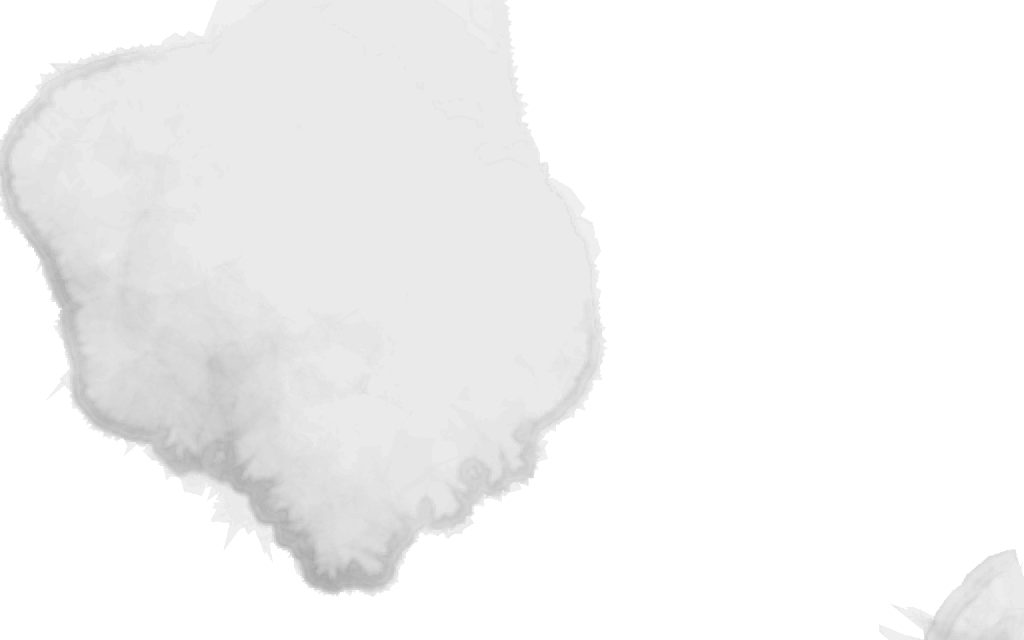
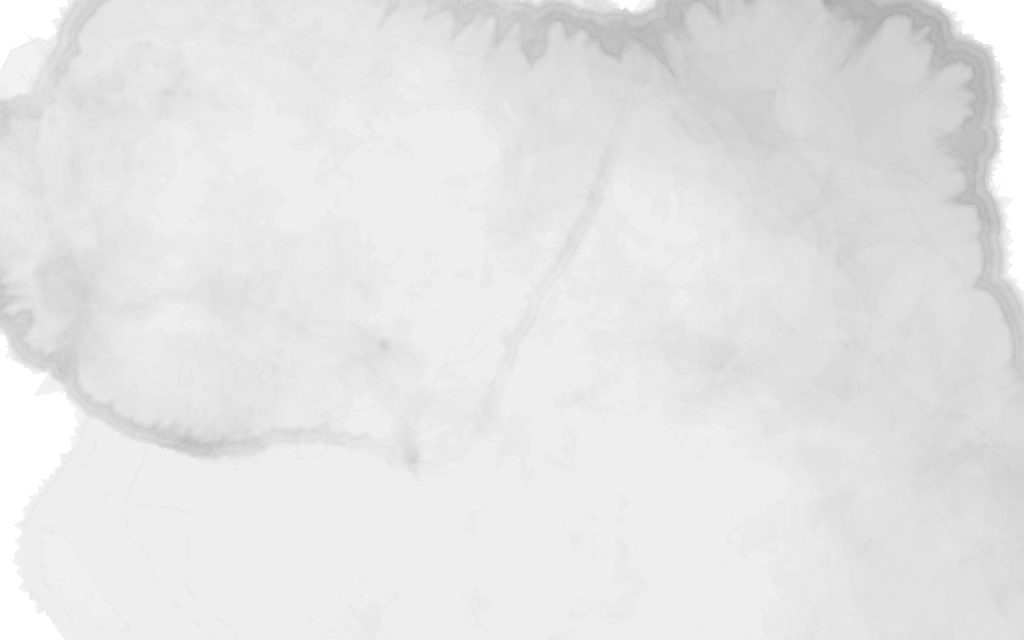
The canopy is painted with the brush, and cutouts stop printing as boxes
He was right that the extruded leaf-stars were not giving leaves. The mark
factory now paints canopies with p5.brush — hundreds of individually bled,
textured leaf strokes in a gaussian mass with twig splines underneath — and
the tree wears them as alpha-tested sprites tinted to the plate family. The
ink pass outlines their ragged painterly silhouettes, which is the whole
point: foliage that reads as drawn, because it literally was.

That exposed a pipeline gap: the G-buffer prepass used one override material
with no alpha test, so every cutout sprite rendered as a full quad in depth
and the ink dutifully framed it in a black rectangle. The prepass now swaps
per-mesh: cutout materials (alphaTest + map) get a cutout G-buffer variant
that discards transparent fragments, cached per mesh; everything else shares
the solid variant as before. This also future-proofs the hand-drawn figure
cutouts, which would have hit the identical bug the day the drawings landed.

Factory notes: the third consecutive canopy paint hard-hangs p5.brush
regardless of seed or size (cumulative internal state), so the tree runs on
two marks mirrored, scaled and tinted into variety; and the giant wall type
now skips the skill tree — its letters were ghosting through the crown, and
a tree full of pickable fruit does not need a label.

diff --git a/src/world/scenes.tsx b/src/world/scenes.tsx
@@ -816,6 +816,59 @@ function ArtifactScene({
   )
 }
 
+
+const FOLIAGE = Object.entries(
+  import.meta.glob('../assets/ink/marks/foliage-*.png', {
+    eager: true,
+    query: '?url',
+    import: 'default',
+  }) as Record<string, string>,
+)
+  .sort(([a], [b]) => a.localeCompare(b))
+  .map(([, url]) => url)
+
+/**
+ * A mass of brush-painted leaves (from the p5.brush mark factory), tinted to
+ * the plate family and alpha-TESTED so the ink pass outlines its ragged,
+ * painterly silhouette — foliage that reads as drawn, not extruded.
+ */
+function CanopySprite({
+  variant,
+  tint,
+  position,
+  scale = 1,
+  flip = false,
+  rotation = 0,
+}: {
+  variant: number
+  tint: THREE.Color
+  position: [number, number, number]
+  scale?: number
+  flip?: boolean
+  rotation?: number
+}) {
+  const url = FOLIAGE[variant % FOLIAGE.length]
+  const texture = useTexture(url)
+  const gradient = useMemo(() => makeToonGradient(3), [])
+  const material = useMemo(() => {
+    texture.colorSpace = THREE.SRGBColorSpace
+    texture.anisotropy = 4
+    return new THREE.MeshToonMaterial({
+      map: texture,
+      color: tint,
+      gradientMap: gradient,
+      alphaTest: 0.35,
+      side: THREE.DoubleSide,
+      toneMapped: false,
+    })
+  }, [texture, tint, gradient])
+  return (
+    <mesh position={position} rotation={[0, 0, rotation]} scale={[flip ? -scale : scale, scale, 1]} material={material}>
+      <planeGeometry args={[2, 2]} />
+    </mesh>
+  )
+}
+
 /**
  * The skill tree, fruiting. Foliage is a dense crown of leaf clusters; the
  * CLICKABLE things are fruit hanging from the boughs — four skill groups and
@@ -825,7 +878,6 @@ function ArtifactScene({
  */
 function TreeScene({ mats, explore, frozen }: { mats: Mats; explore: boolean; frozen: boolean }) {
   const trunk = useMemo(() => trunkProfile(), [])
-  const cluster = useMemo(() => leafCluster(), [])
 
   const foliage: Array<[number, number, number, number, number, keyof Mats]> = [
     [-2.5, 3.0, 0.2, 0.75, 0.3, 'accent'],
@@ -857,16 +909,16 @@ function TreeScene({ mats, explore, frozen }: { mats: Mats; explore: boolean; fr
       {/* trunk and boughs */}
       <InkShape shape={trunk} depth={0.55} material={mats.dim} position={[0, 0.9, 0]} scale={4.2} />
 
-      {/* the crown */}
-      {foliage.map(([x, y, z, sc, rot, mat]) => (
+      {/* the crown, painted with the brush marks */}
+      {foliage.map(([x, y, z, sc, rot, mat], i) => (
         <Drift key={`${x},${y}`} amount={0.05} speed={0.35} phase={x * 2.1}>
-          <InkShape
-            shape={cluster}
-            depth={0.3}
-            material={mats[mat]}
+          <CanopySprite
+            variant={i}
+            tint={mats[mat].color}
             position={[x, y, z]}
-            rotation={[0, 0, rot]}
-            scale={sc}
+            scale={sc * 1.6}
+            flip={i % 2 === 1}
+            rotation={rot * 0.4}
           />
         </Drift>
       ))}
@@ -883,14 +935,13 @@ function TreeScene({ mats, explore, frozen }: { mats: Mats; explore: boolean; fr
               <mesh material={mats.paper}>
                 <sphereGeometry args={[f.r, 18, 14]} />
               </mesh>
-              {/* one small leaf at the stem */}
-              <InkShape
-                shape={cluster}
-                depth={0.03}
-                material={mats.accent}
-                position={[0.12, f.r + 0.12, 0.05]}
-                rotation={[0, 0, -0.5]}
-                scale={0.14}
+              {/* one small painted leaf at the stem */}
+              <CanopySprite
+                variant={i}
+                tint={mats.accent.color}
+                position={[0.14, f.r + 0.14, 0.05]}
+                scale={0.22}
+                rotation={-0.4}
               />
             </group>
           </Drift>

diff --git a/src/three/InkPipeline.tsx b/src/three/InkPipeline.tsx
@@ -5,7 +5,7 @@ import { EffectComposer } from 'three/examples/jsm/postprocessing/EffectComposer
 import { RenderPass } from 'three/examples/jsm/postprocessing/RenderPass.js'
 import { ShaderPass } from 'three/examples/jsm/postprocessing/ShaderPass.js'
 import { OutputPass } from 'three/examples/jsm/postprocessing/OutputPass.js'
-import { createGBufferMaterial } from './gbufferMaterial'
+import { createGBufferCutoutMaterial, createGBufferMaterial } from './gbufferMaterial'
 import { createInkCompositeShader } from './shaders/inkComposite'
 import { type InkParams } from './inkConfig'
 import { readInkTheme, type InkPalette } from './theme'
@@ -131,14 +131,42 @@ export function InkPipeline({ params, palette, frozen = false, slamRef, bloomRef
     gl.getClearColor(prevClear)
     const prevAlpha = gl.getClearAlpha()
 
-    rig.gmat.uniforms.uCamFar.value = (camera as THREE.PerspectiveCamera).far
+    const far = (camera as THREE.PerspectiveCamera).far
+    rig.gmat.uniforms.uCamFar.value = far
     scene.background = null
-    scene.overrideMaterial = rig.gmat
+
+    // Per-mesh swap instead of scene.overrideMaterial: cutout sprites (foliage,
+    // the drawn figure) must keep their alpha test in the prepass, or the ink
+    // outlines their quads as rectangles. Cutout materials are cached per mesh.
+    scene.traverse((obj) => {
+      const mesh = obj as THREE.Mesh
+      if (!mesh.isMesh) return
+      const src = mesh.material as THREE.Material & { map?: THREE.Texture | null }
+      mesh.userData.__inkSaved = src
+      if (src && src.alphaTest > 0 && src.map) {
+        let cut = mesh.userData.__inkCutout as THREE.ShaderMaterial | undefined
+        if (!cut || cut.uniforms.map.value !== src.map) {
+          cut = createGBufferCutoutMaterial(src.map, src.alphaTest)
+          mesh.userData.__inkCutout = cut
+        }
+        cut.uniforms.uCamFar.value = far
+        mesh.material = cut
+      } else {
+        mesh.material = rig.gmat
+      }
+    })
+
     gl.setRenderTarget(rig.gbuffer)
     gl.setClearColor(FAR_CLEAR, 1)
     gl.clear(true, true, false)
     gl.render(scene, camera)
 
+    scene.traverse((obj) => {
+      const mesh = obj as THREE.Mesh
+      if (!mesh.isMesh || !mesh.userData.__inkSaved) return
+      mesh.material = mesh.userData.__inkSaved
+      delete mesh.userData.__inkSaved
+    })
     scene.overrideMaterial = prevOverride
     scene.background = prevBackground
     gl.setRenderTarget(null)

diff --git a/src/lab/marks.ts b/src/lab/marks.ts
@@ -104,7 +104,73 @@ function cloudBank(seedN: number, count: number, w: number, h: number) {
   }
 }
 
+
+/** One brushed leaf: a pointed oval laid down with bleed, at any angle. */
+function brushLeaf(x: number, y: number, len: number, wid: number, rot: number) {
+  const c = Math.cos(rot)
+  const n = Math.sin(rot)
+  const at = (dx: number, dy: number): [number, number] => [
+    x + dx * c - dy * n,
+    y + dx * n + dy * c,
+  ]
+  brush.beginShape(0.55)
+  brush.vertex(...at(-len / 2, 0))
+  brush.vertex(...at(-len * 0.1, -wid / 2))
+  brush.vertex(...at(len / 2, 0))
+  brush.vertex(...at(-len * 0.05, wid / 2))
+  brush.endShape(true)
+}
+
+/**
+ * A canopy mass: dozens of brushed leaves in a gaussian cluster, denser at
+ * the heart, with a few twig strokes underneath. The ragged silhouette is the
+ * point — the ink pass draws whatever edge this leaves.
+ */
+function canopy(seedN: number, w: number, h: number, count: number) {
+  seeded(seedN)
+  brush.noStroke()
+  brush.fillBleed(0.14, 'out')
+  brush.fillTexture(0.6, 0.45)
+  const cx = w / 2
+  const cy = h / 2
+
+  brush.set('HB', INK, 0.9)
+  for (let k = 0; k < 4; k++) {
+    const a = (k / 4) * Math.PI * 2 + Math.random()
+    brush.spline(
+      [
+        [cx, cy + 20, 0.7],
+        [cx + Math.cos(a) * w * 0.3, cy + Math.sin(a) * h * 0.28, 0.25],
+      ],
+      0.5,
+    )
+  }
+
+  brush.noStroke()
+  for (let i = 0; i < count; i++) {
+    const a = Math.random() * Math.PI * 2
+    const r = ((Math.random() + Math.random()) / 2) * w * 0.34
+    const x = cx + Math.cos(a) * r
+    const y = cy + Math.sin(a) * r * 0.72
+    const len = Math.min(w, h) * (0.07 + Math.random() * 0.09)
+    const wid = len * (0.36 + Math.random() * 0.24)
+    brush.fill(INK, 150 + Math.random() * 105)
+    brushLeaf(x, y, len, wid, Math.random() * Math.PI * 2)
+  }
+}
+
 const marks: Mark[] = [
+  {
+    name: 'foliage-01',
+    size: [512, 512],
+    draw: () => canopy(601, 512, 512, 190),
+  },
+  {
+    name: 'foliage-02',
+    size: [512, 512],
+    draw: () => canopy(602, 512, 512, 150),
+  },
+
   {
     name: 'bg-wash-01',
     size: [1024, 640],

diff --git a/src/three/gbufferMaterial.ts b/src/three/gbufferMaterial.ts
@@ -29,3 +29,40 @@ export function createGBufferMaterial() {
     `,
   })
 }
+
+/**
+ * The cutout variant: samples the mesh's own alpha map and discards where the
+ * cutout is transparent. Without this the prepass renders full quads for the
+ * foliage and figure sprites, and the ink pass dutifully outlines rectangles.
+ * One instance per cutout mesh, created lazily and cached on the mesh.
+ */
+export function createGBufferCutoutMaterial(map: THREE.Texture, alphaTest: number) {
+  return new THREE.ShaderMaterial({
+    uniforms: { uCamFar: { value: 100 }, map: { value: map }, uCut: { value: alphaTest } },
+    side: THREE.DoubleSide,
+    vertexShader: /* glsl */ `
+      uniform float uCamFar;
+      varying vec3 vN;
+      varying float vD;
+      varying vec2 vUv;
+      void main() {
+        vec4 mv = modelViewMatrix * vec4(position, 1.0);
+        vN = normalize(normalMatrix * normal);
+        vD = clamp(-mv.z / uCamFar, 0.0, 1.0);
+        vUv = uv;
+        gl_Position = projectionMatrix * mv;
+      }
+    `,
+    fragmentShader: /* glsl */ `
+      uniform sampler2D map;
+      uniform float uCut;
+      varying vec3 vN;
+      varying float vD;
+      varying vec2 vUv;
+      void main() {
+        if (texture2D(map, vUv).a < uCut) discard;
+        gl_FragColor = vec4(vN, vD);
+      }
+    `,
+  })
+}

diff --git a/src/world/ChapterType.tsx b/src/world/ChapterType.tsx
@@ -27,11 +27,14 @@ export function ChapterType({
   const settled = useRef(0)
   // The cover carries no chapter type: the two books are the title, and the
   // giant name was fighting them for the same space.
-  const skip = pathname === '/' || pathname.startsWith('/notes')
+  // No wall type where the world already names itself: the cover's books,
+  // the board's plaque, and the tree that is unmistakably a skill tree.
+  const skip =
+    pathname === '/' || pathname.startsWith('/notes') || pathname === '/skill-tree'
 
   const anchor = useMemo(() => {
     const [tx, ty, tz] = entry.camera.target
-    return new THREE.Vector3(tx - 3.2, ty + 1.9, tz - 7.5)
+    return new THREE.Vector3(tx - 3.2, ty + 3.2, tz - 7.5)
   }, [entry.camera.target])
 
   // A quiet settle rather than a slam: the title eases up into place while the
